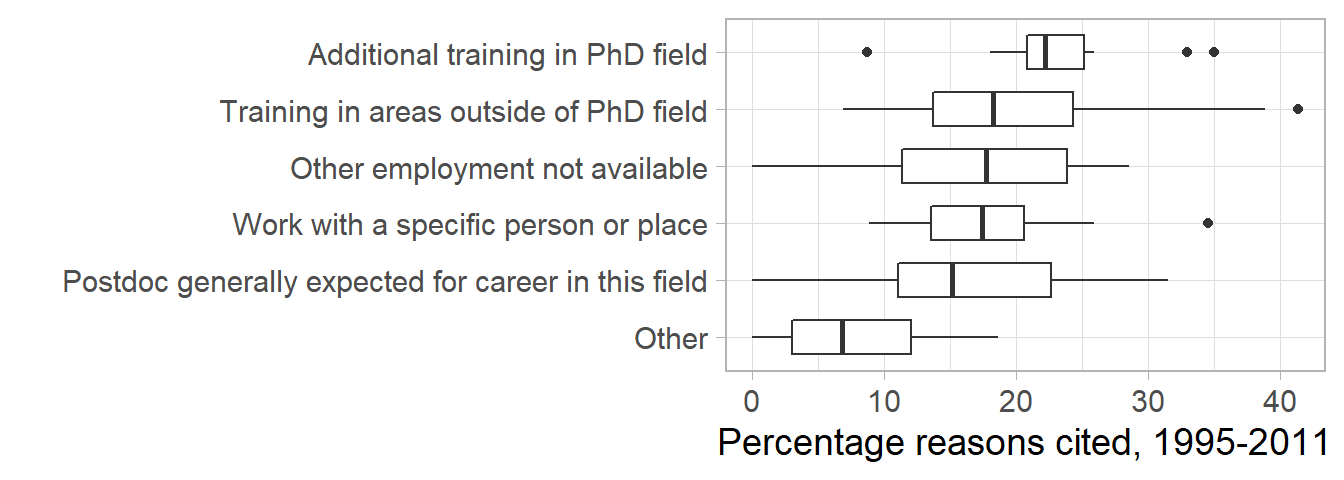
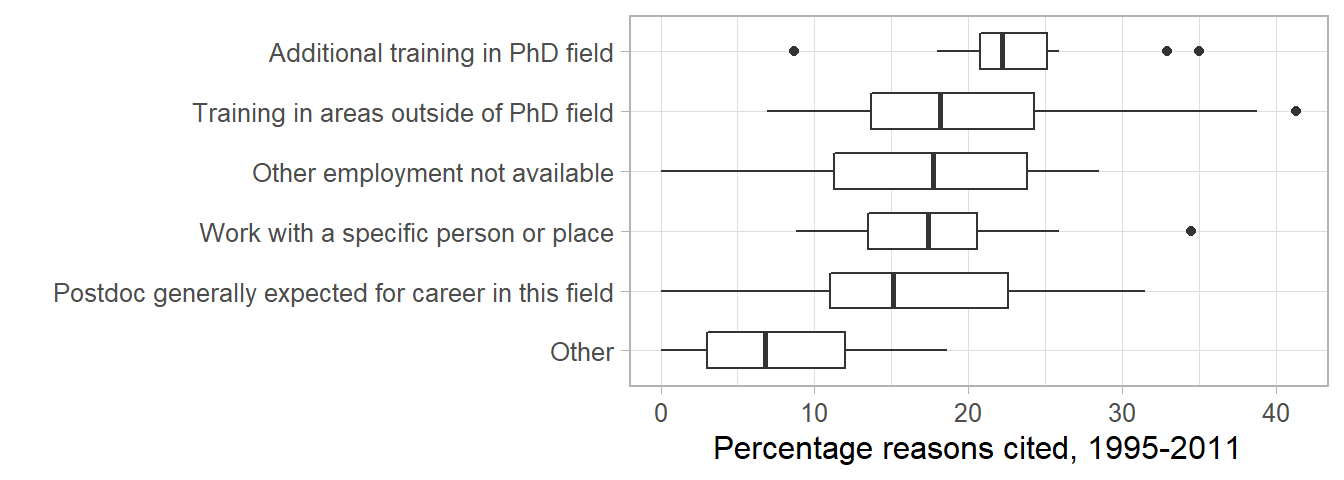
spelling

diff --git a/docs/posts/2022-01-14-stacked-bar-alternatives/index.html b/docs/posts/2022-01-14-stacked-bar-alternatives/index.html
@@ -291,8 +291,7 @@ Summary
 <summary>R code</summary>
 <div class="sourceCode cell-code" id="cb1"><pre class="sourceCode r code-with-copy"><code class="sourceCode r"><span id="cb1-1"><a href="#cb1-1" aria-hidden="true" tabindex="-1"></a><span class="fu">library</span>(<span class="st">"data.table"</span>)</span>
 <span id="cb1-2"><a href="#cb1-2" aria-hidden="true" tabindex="-1"></a><span class="fu">library</span>(<span class="st">"ggplot2"</span>)</span>
-<span id="cb1-3"><a href="#cb1-3" aria-hidden="true" tabindex="-1"></a><span class="fu">library</span>(<span class="st">"GGally"</span>)</span>
-<span id="cb1-4"><a href="#cb1-4" aria-hidden="true" tabindex="-1"></a><span class="fu">library</span>(<span class="st">"graphclassmate"</span>)</span></code><button title="Copy to Clipboard" class="code-copy-button"><i class="bi"></i></button></pre></div>
+<span id="cb1-3"><a href="#cb1-3" aria-hidden="true" tabindex="-1"></a><span class="fu">library</span>(<span class="st">"GGally"</span>)</span></code><button title="Copy to Clipboard" class="code-copy-button"><i class="bi"></i></button></pre></div>
 </details>
 </div>
 <p>In a recent article, the authors used two stacked bar charts to illustrate data on postdoctoral engineering PhDs <span class="citation" data-cites="Main+Wang+Tan:2021">(<a href="#ref-Main+Wang+Tan:2021" role="doc-biblioref">Main, Wang, and Tan 2021</a>)</span>. The charts are truthful but not particularly informative—the visual logic of stacked bars tends to obscure rather than inform insight. By redesigning the charts, I hope to better align the logic of the visuals with the logic of the arguments.</p>
@@ -444,7 +443,7 @@ Summary
 <div class="sourceCode cell-code" id="cb6"><pre class="sourceCode r code-with-copy"><code class="sourceCode r"><span id="cb6-1"><a href="#cb6-1" aria-hidden="true" tabindex="-1"></a><span class="fu">ggplot</span>(dt, <span class="fu">aes</span>(<span class="at">x =</span> pct, <span class="at">y =</span> <span class="fu">reorder</span>(reason, pct, median))) <span class="sc">+</span></span>
 <span id="cb6-2"><a href="#cb6-2" aria-hidden="true" tabindex="-1"></a>  <span class="fu">geom_boxplot</span>(<span class="at">width =</span> <span class="fl">0.6</span>) <span class="sc">+</span></span>
 <span id="cb6-3"><a href="#cb6-3" aria-hidden="true" tabindex="-1"></a>  <span class="fu">labs</span>(<span class="at">x =</span> <span class="st">"Percentage reasons cited, 1995-2011"</span>, <span class="at">y =</span> <span class="st">""</span>) <span class="sc">+</span></span>
-<span id="cb6-4"><a href="#cb6-4" aria-hidden="true" tabindex="-1"></a>  <span class="fu">theme_light</span>(<span class="at">base_size =</span> <span class="dv">14</span>) <span class="sc">+</span></span>
+<span id="cb6-4"><a href="#cb6-4" aria-hidden="true" tabindex="-1"></a>  <span class="fu">theme_light</span>(<span class="at">base_size =</span> <span class="dv">12</span>) <span class="sc">+</span></span>
 <span id="cb6-5"><a href="#cb6-5" aria-hidden="true" tabindex="-1"></a>  <span class="fu">theme</span>(<span class="at">legend.position =</span> <span class="st">"none"</span>) </span></code><button title="Copy to Clipboard" class="code-copy-button"><i class="bi"></i></button></pre></div>
 </details>
 <div class="cell-output-display page-columns page-full">
@@ -539,7 +538,7 @@ Summary
 <span id="cb8-3"><a href="#cb8-3" aria-hidden="true" tabindex="-1"></a>  <span class="fu">labs</span>(<span class="at">x =</span> <span class="st">"Percentage"</span>, </span>
 <span id="cb8-4"><a href="#cb8-4" aria-hidden="true" tabindex="-1"></a>       <span class="at">y =</span> <span class="st">""</span>, </span>
 <span id="cb8-5"><a href="#cb8-5" aria-hidden="true" tabindex="-1"></a>       <span class="at">title =</span> <span class="st">"Employment sector"</span>) <span class="sc">+</span></span>
-<span id="cb8-6"><a href="#cb8-6" aria-hidden="true" tabindex="-1"></a>  <span class="fu">theme_light</span>(<span class="at">base_size =</span> <span class="dv">14</span>) <span class="sc">+</span></span>
+<span id="cb8-6"><a href="#cb8-6" aria-hidden="true" tabindex="-1"></a>  <span class="fu">theme_light</span>(<span class="at">base_size =</span> <span class="dv">12</span>) <span class="sc">+</span></span>
 <span id="cb8-7"><a href="#cb8-7" aria-hidden="true" tabindex="-1"></a>  <span class="fu">theme</span>(<span class="at">legend.title =</span> <span class="fu">element_blank</span>()) <span class="sc">+</span> </span>
 <span id="cb8-8"><a href="#cb8-8" aria-hidden="true" tabindex="-1"></a>  <span class="fu">scale_color_manual</span>(<span class="at">values =</span> <span class="fu">c</span>(<span class="st">"black"</span>, <span class="st">"black"</span>)) <span class="sc">+</span> </span>
 <span id="cb8-9"><a href="#cb8-9" aria-hidden="true" tabindex="-1"></a>  <span class="fu">scale_fill_manual</span>(<span class="at">values =</span> <span class="fu">c</span>(<span class="st">"white"</span>, <span class="st">"black"</span>)) <span class="sc">+</span></span>
@@ -568,7 +567,7 @@ Summary
 <span id="cb9-3"><a href="#cb9-3" aria-hidden="true" tabindex="-1"></a>  <span class="fu">labs</span>(<span class="at">x =</span> <span class="st">"Percentage"</span>, </span>
 <span id="cb9-4"><a href="#cb9-4" aria-hidden="true" tabindex="-1"></a>       <span class="at">y =</span> <span class="st">""</span>, </span>
 <span id="cb9-5"><a href="#cb9-5" aria-hidden="true" tabindex="-1"></a>       <span class="at">title =</span> <span class="st">"Primary work activity "</span>) <span class="sc">+</span></span>
-<span id="cb9-6"><a href="#cb9-6" aria-hidden="true" tabindex="-1"></a>  <span class="fu">theme_light</span>(<span class="at">base_size =</span> <span class="dv">14</span>) <span class="sc">+</span></span>
+<span id="cb9-6"><a href="#cb9-6" aria-hidden="true" tabindex="-1"></a>  <span class="fu">theme_light</span>(<span class="at">base_size =</span> <span class="dv">12</span>) <span class="sc">+</span></span>
 <span id="cb9-7"><a href="#cb9-7" aria-hidden="true" tabindex="-1"></a>  <span class="fu">theme</span>(<span class="at">legend.title =</span> <span class="fu">element_blank</span>()) <span class="sc">+</span> </span>
 <span id="cb9-8"><a href="#cb9-8" aria-hidden="true" tabindex="-1"></a>  <span class="fu">scale_color_manual</span>(<span class="at">values =</span> <span class="fu">c</span>(<span class="st">"black"</span>, <span class="st">"black"</span>)) <span class="sc">+</span> </span>
 <span id="cb9-9"><a href="#cb9-9" aria-hidden="true" tabindex="-1"></a>  <span class="fu">scale_fill_manual</span>(<span class="at">values =</span> <span class="fu">c</span>(<span class="st">"white"</span>, <span class="st">"black"</span>)) <span class="sc">+</span></span>

diff --git a/docs/index.html b/docs/index.html
@@ -306,7 +306,7 @@ engineering education
 </a>
 </div>
 </div>
-<div class="quarto-post image-right" data-index="3" data-categories="R,data storytelling,engineering education" data-listing-date-sort="1642136400000" data-listing-file-modified-sort="1653349931559" data-listing-reading-time-sort="13.22">
+<div class="quarto-post image-right" data-index="3" data-categories="R,data storytelling,engineering education" data-listing-date-sort="1642136400000" data-listing-file-modified-sort="1653350129599" data-listing-reading-time-sort="13.22">
 <div class="thumbnail">
 <p><a href="./posts/2022-01-14-stacked-bar-alternatives/index.html"> <img src="./posts/2022-01-14-stacked-bar-alternatives/thumbnail.png" class="thumnail-image"> </a></p>
 </div>
